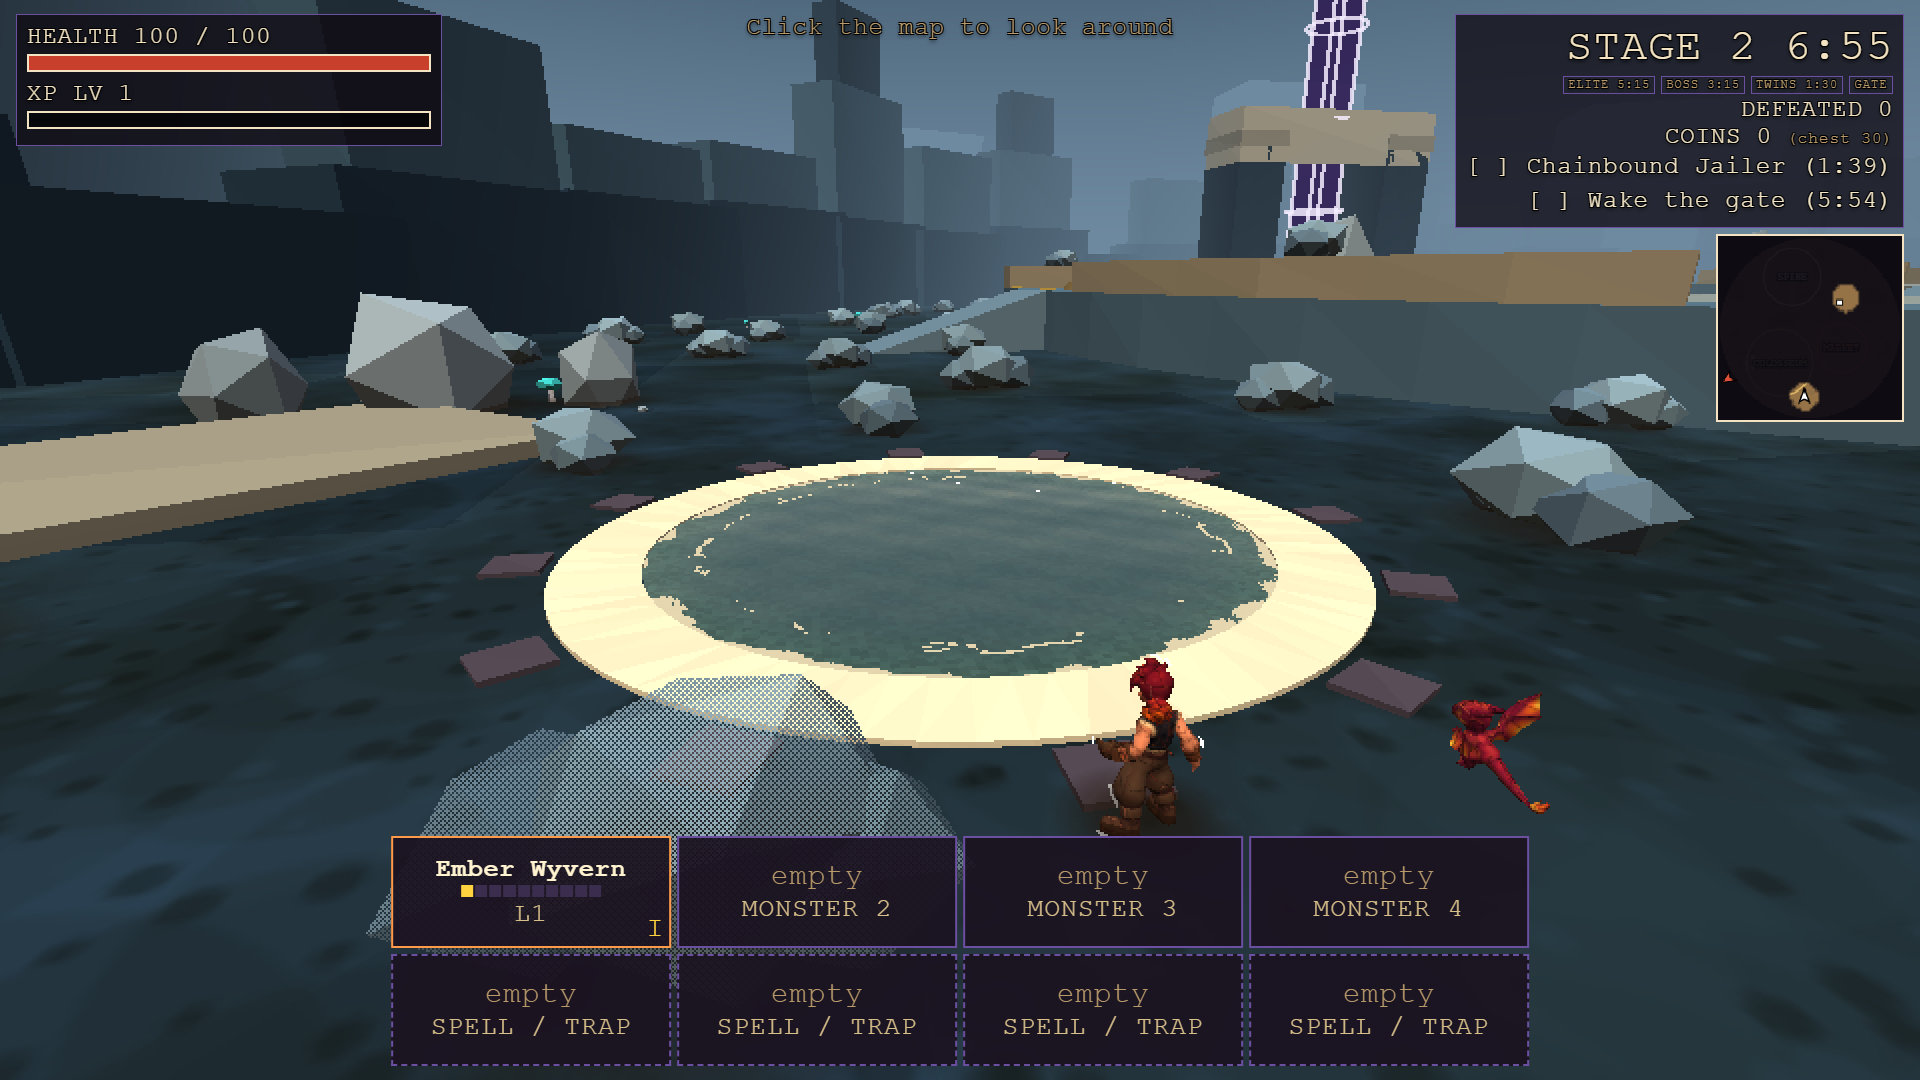
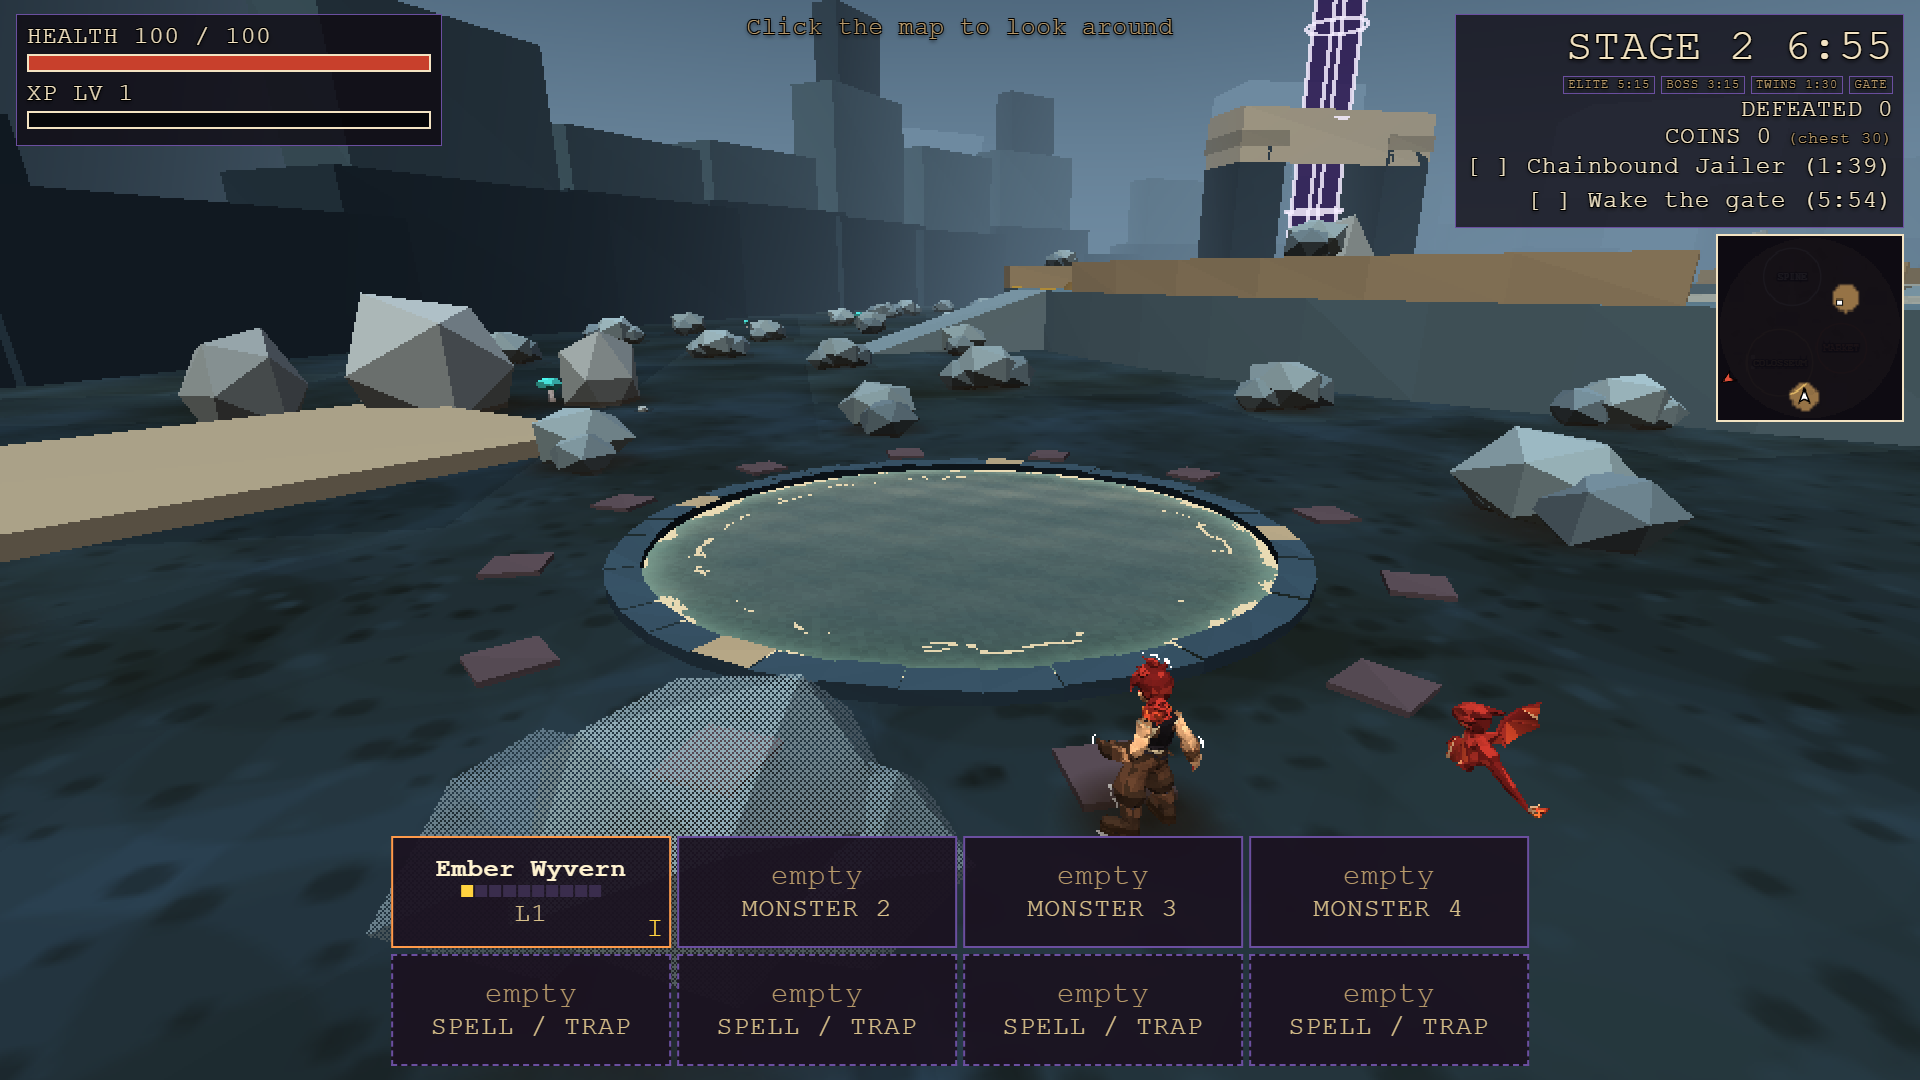
Water round 2: stone lip, basin, shallow edge, glitter band, warmer Stage 1 water
The pool rim is now a low carved stone lip, 0.6 m wide and 0.21 m tall in 40 faceted blocks in the ruinstone ramp (7a6a52 a89578 c9b896, a few light faces on top), with a dark wet band on the inner wall; the water sits 0.15 m below the lip and the sim stays flat. Within about 0.8 m of the rim the bed mixes toward a lighter bed colour with the foam on top. Glitter is a band toward the sun in the light tone of the sky. Stage 1 water is the demo's morning preset darkened a step. New test/browser-waterhide.mjs (duelist and a warning ring in a pool).

Claude-Session: https://claude.ai/code/session_01G4m5sPDpcSeznt8KShqd9B

Changed region(s): [[0.2812, 0.3972, 0.7188, 0.7028], [0.75, 0.6417, 0.8125, 0.7639]]

diff --git a/duelsummoner/src/view/mapMesh.js b/duelsummoner/src/view/mapMesh.js
@@ -105,6 +105,18 @@ function groundTex() {
   for (let i = 0; i < 900; i++) wrap(r() * 256, r() * 256, 0.8 + r() * 1.6, r() < 0.6 ? 'rgba(90,70,40,0.35)' : 'rgba(255,250,235,0.45)');
   gtex = new T.CanvasTexture(cv); gtex.wrapS = gtex.wrapT = T.RepeatWrapping; gtex.magFilter = T.LinearFilter; gtex.minFilter = T.LinearMipmapLinearFilter; return gtex;
 }
+// the pool lip: a low carved stone ring, 0.6 m wide and 0.21 m tall (the water sits 0.15 m below it), faceted in 40 blocks in the ruinstone ramp with a few light faces on top, and a dark wet band on the inner wall
+const LIP = [0x7a6a52, 0xa89578, 0x7a6a52, 0xa89578, 0xc9b896], LIP_H = 0.21, LIP_W = 0.6, WET = 0x3a3028;
+function addLip(B, p, look) {
+  const col = c => (look && look.ramp ? rampColour(look.ramp, c) : c), n = 40, dim = (c, k) => ((Math.round(((c >> 16) & 255) * k) << 16) | (Math.round(((c >> 8) & 255) * k) << 8) | Math.round((c & 255) * k));
+  for (let i = 0; i < n; i++) {
+    const a = i / n * 2 * Math.PI, b = (i + 1) / n * 2 * Math.PI, m = (a + b) / 2, h = LIP_H + (((i * 7) % 5) - 2) * 0.012, r0 = p.r, r1 = p.r + LIP_W, base = LIP[(i * 3 + (i % 4)) % 4], top = col(i % 9 === 4 ? LIP[4] : base), side = col(dim(base, 0.82));
+    const P = (r, ang, y) => [p.x + r * Math.cos(ang), y, p.z + r * Math.sin(ang)];
+    B.quad(P(r0, a, h), P(r1, a, h), P(r1, b, h), P(r0, b, h), [0, 1, 0], top);
+    B.quad(P(r1, a, 0), P(r1, b, 0), P(r1, b, h), P(r1, a, h), [Math.cos(m), 0, Math.sin(m)], side);
+    B.quad(P(r0, a, 0.03), P(r0, b, 0.03), P(r0, b, h), P(r0, a, h), [-Math.cos(m), 0, -Math.sin(m)], col(WET));
+  }
+}
 export function buildMapMesh(map, look) {
   look = look || STAGE_LOOK[0]; const SAND = look.sand, pc = p => (look.ramp ? rampColour(look.ramp, p.c0 === undefined ? p.c : p.c0) : p.c), prims = look.ramp ? map.prims.map(p => Object.assign({}, p, { c: pc(p) })) : map.prims;
   const B = new Builder(), F = new Builder(), G = new Builder(true), group = new T.Group();
@@ -119,7 +131,7 @@ export function buildMapMesh(map, look) {
   { const rd = roadPath(map), strip = (ax, az, bx, bz, hw) => { const dx = bx - ax, dz = bz - az, l = Math.sqrt(dx * dx + dz * dz) || 1, px = -dz / l * hw, pz = dx / l * hw; B.quad([ax - px, 0.05, az - pz], [ax + px, 0.05, az + pz], [bx + px, 0.05, bz + pz], [bx - px, 0.05, bz - pz], [0, 1, 0], look.road); };
     for (let i = 1; i < rd.main.length; i++) strip(rd.main[i - 1][0], rd.main[i - 1][1], rd.main[i][0], rd.main[i][1], rd.width / 2); for (const t of rd.trails) strip(t[0][0], t[0][1], t[1][0], t[1][1], rd.trailWidth / 2); }
   // two summoning pools: an ink-blue disc, a bone rim 1.5 m wide, a ring of glyph tiles; flat and walkable, no effect
-  for (const p of poolSpots(map)) { addRing(B, { cx: p.x, cz: p.z, r0: p.r, r1: p.r + 1.5, a0: 0, a1: 360, h: 0.08, c: 0xe6dcc0 });
+  for (const p of poolSpots(map)) { addLip(B, p, look);
     for (let k = 0; k < 12; k++) { const a = k / 12 * 6.283, x = p.x + Math.cos(a) * (p.r + 2.2), z = p.z + Math.sin(a) * (p.r + 2.2); addBox(B, { x0: x - 0.5, x1: x + 0.5, z0: z - 0.5, z1: z + 0.5, h: 0.09, rot: a / DEG, c: 0x4a4250 }); } }
   prims.forEach(p => { const T2 = p.landmark ? F : B; if (p.t === 'tilt') addTilt(B, p.x, 0, p.z, p.w, p.th, p.hgt, p.yaw, p.tilt, p.c); else if (p.t === 'box') addBox(T2, p); else if (p.t === 'ramp') addRamp(T2, p); else if (p.t === 'ring') addRing(T2, p); else addCyl(T2, p); });
   // the rim: 56 stacked buttes (a base, an inset mid band, a cap on about a third), 16 to 45 m tall, in two strata colours; 8 seeded notches only 8 to 10 m high (view only; the invisible wall stays)

diff --git a/duelsummoner/src/view/water.js b/duelsummoner/src/view/water.js
@@ -20,7 +20,7 @@ void main() {
 const FS = `
 #include <fog_pars_fragment>
 ${GLSL}
-varying vec3 vW; varying float vD; uniform vec4 uRip[8]; uniform vec3 uWatS; uniform vec3 uWatD; uniform vec3 uEye;
+varying vec3 vW; varying float vD; uniform vec4 uRip[8]; uniform vec3 uWatS; uniform vec3 uWatD; uniform vec3 uWatL; uniform vec3 uEye;
 void main() {
   vec2 p = (floor(vW.xz * 8.0) + 0.5) / 8.0; float dep = max(vD, 0.0);
   float g = gust(p), amp = 0.45 + 0.9 * g; vec2 gr = vec2(0.0); float ph;
@@ -38,12 +38,13 @@ void main() {
   vec3 n = normalize(vec3(-gr.x, 1.0, -gr.y)), V = normalize(vW - uEye);
   vec2 bp = p - gr * dep * 3.0; float h = hsh(floor(bp * 8.0));
   vec3 bed = uWatS * (0.85 + 0.3 * h) * 0.9;                                                  // the bed: a wobbled lookup (refraction), a little texel variation
+  bed = mix(bed, uWatL, (1.0 - smoothstep(0.0, 0.27, dep)) * 0.75);                          // within about 0.8 m of the rim the lit bed shows through
   vec3 c = mix(bed, uWatS, (1.0 - exp(-dep * 2.6)) * 0.6); c = mix(c, uWatD, 1.0 - exp(-dep * 1.05));
   vec3 Rf = reflect(V, n); Rf.y = abs(Rf.y) + 0.02; Rf = normalize(Rf);
   vec3 rc = skyBase(Rf);
   float F0 = 0.07; c = mix(c, rc, F0 + (1.0 - F0) * pow(1.0 - max(dot(n, -V), 0.0), 4.0));
-  float tw = hsh(floor(p * 8.0) + floor(uT * 10.0) * vec2(7.0, 3.0)), lobe = pow(max(dot(Rf, uSunD), 0.0), 70.0);
-  c += uSunK * (step(1.0 - lobe * (0.7 + g), tw) + step(0.9975 - 0.006 * g, tw)) * 0.85;      // sun glitter, twinkling per texel
+  float tw = hsh(floor(p * 8.0) + floor(uT * 10.0) * vec2(7.0, 3.0)), lobe = pow(max(dot(normalize(Rf.xz + 1e-5), normalize(uSunD.xz)), 0.0), 18.0) * smoothstep(0.0, 0.5, 1.0 - Rf.y);
+  c += mix(uSunK, uSkyH, 0.45) * (step(1.0 - lobe * (0.55 + 0.5 * g), tw) * 1.1 + step(0.9985, tw) * 0.3);      // sun glitter: a band toward the sun, twinkling per texel, in the light tone of the sky
   c += uWatS * 0.16 * step(0.55, g);                                                           // a gust shows as a paler patch
   float fn = N(p * 0.19 + vec2(4.0, 2.0) / 512.0 * uT).r, lap = 0.5 + 0.5 * sin(uT * 1.4 + dep * 18.0 + fn * 4.0);
   float foam = step(dep + (fn - 0.5) * 0.12, 0.03 + 0.05 * lap);                               // the foam line laps in and out at the rim
@@ -65,7 +66,7 @@ export function buildWater(pools, look) {
     base += 1 + (RINGS.length - 1) * SIDES;
   }
   const g = new T.BufferGeometry(); g.setAttribute('position', new T.Float32BufferAttribute(pos, 3)); g.setAttribute('aD', new T.Float32BufferAttribute(dep, 1)); g.setIndex(idx);
-  const u = T.UniformsUtils.merge([T.UniformsLib.fog, engineUniforms(), { uRip: { value: [] }, uWatS: { value: new T.Color(look.water[0]) }, uWatD: { value: new T.Color(look.water[1]) }, uEye: { value: new T.Vector3() } }]);
+  const u = T.UniformsUtils.merge([T.UniformsLib.fog, engineUniforms(), { uRip: { value: [] }, uWatS: { value: new T.Color(look.water[0]) }, uWatD: { value: new T.Color(look.water[1]) }, uWatL: { value: new T.Color(look.water[2]) }, uEye: { value: new T.Vector3() } }]);
   u.uRip.value = []; for (let i = 0; i < 8; i++) u.uRip.value.push(new T.Vector4());
   const mat = new T.ShaderMaterial({ uniforms: u, vertexShader: VS, fragmentShader: FS, fog: true, side: T.DoubleSide });
   const mesh = new T.Mesh(g, mat); mesh.frustumCulled = false; mesh.userData.update = cam => { u.uEye.value.copy(cam); for (let i = 0; i < 8; i++) u.uRip.value[i].set(RIP[i * 4], RIP[i * 4 + 1], RIP[i * 4 + 2], RIP[i * 4 + 3]); };

diff --git a/duelsummoner/src/data/look.js b/duelsummoner/src/data/look.js
@@ -2,11 +2,11 @@
 // ramp: null keeps each primitive's own colour; otherwise a primitive's original colour (p.c0) is mapped by its brightness onto this ramp of palette colours, dark to light.
 // sky: top, horizon (also the fog colour) and below-the-horizon colours.
 export const STAGE_LOOK = [
-  { name: 'ruins', ramp: null, sand: [0xc8a46c, 0xcaa978, 0xc09c66], road: 0xb09470, rim: [0xbca494, 0xd0bcaa, 0xbca494], mesa: 0xd4c4ac, skirt: 0xc8a46c, landmark: [0xe6dcc0, 0x4a4250], seal: [0.18, 0.10, 0.32], sky: [0x8fb2cc, 0xe8d6b0, 0xd9c29a], fogNear: 80, fogFar: 300, water: [0x2e3f66, 0x16203c] },
+  { name: 'ruins', ramp: null, sand: [0xc8a46c, 0xcaa978, 0xc09c66], road: 0xb09470, rim: [0xbca494, 0xd0bcaa, 0xbca494], mesa: 0xd4c4ac, skirt: 0xc8a46c, landmark: [0xe6dcc0, 0x4a4250], seal: [0.18, 0.10, 0.32], sky: [0x8fb2cc, 0xe8d6b0, 0xd9c29a], fogNear: 80, fogFar: 300, water: [0x32939f, 0x14395a, 0x7fc9c9] },
   // Stage 2, Sealed Catacombs: slate floor, wet stone edge, old bone and rust. No sun, a pale cold haze.
-  { name: 'catacombs', ramp: [0x0f1a26, 0x23384d, 0x3c5a73, 0x6e8aa0, 0x9a917c, 0xd9d0b8], sand: [0x23384d, 0x2a4259, 0x1d3043], road: 0x3c5a73, rim: [0x23384d, 0x3c5a73, 0x1b2c3e], mesa: 0x2a4259, skirt: 0x0f1a26, landmark: [0xd9d0b8, 0x23384d], seal: [0.18, 0.10, 0.32], sky: [0x23384d, 0x6e8aa0, 0x0f1a26], fogNear: 50, fogFar: 230, water: [0x3f5f52, 0x1b2c3e] },
+  { name: 'catacombs', ramp: [0x0f1a26, 0x23384d, 0x3c5a73, 0x6e8aa0, 0x9a917c, 0xd9d0b8], sand: [0x23384d, 0x2a4259, 0x1d3043], road: 0x3c5a73, rim: [0x23384d, 0x3c5a73, 0x1b2c3e], mesa: 0x2a4259, skirt: 0x0f1a26, landmark: [0xd9d0b8, 0x23384d], seal: [0.18, 0.10, 0.32], sky: [0x23384d, 0x6e8aa0, 0x0f1a26], fogNear: 50, fogFar: 230, water: [0x3f5f52, 0x1b2c3e, 0x6f9a86] },
   // Stage 3, Vault of the Last Duel: basalt floor under a roof lost in black, ash-gold, moon-white and crimson. No violet in the scenery; the seal core is pale so it reads on dark ground.
-  { name: 'vault', ramp: [0x0d0b12, 0x1e1e2a, 0x2e2c3a, 0x46445a, 0x8a7a5c, 0xb8a37c, 0xd9c7a0], sand: [0x1e1e2a, 0x2e2c3a, 0x26242f], road: 0x46445a, rim: [0x2e2c3a, 0x46445a, 0x1e1e2a], mesa: 0x1e1e2a, skirt: 0x0d0b12, landmark: [0xd8e4f4, 0x2e2c3a], seal: [0.62, 0.52, 0.88], sky: [0x0d0b12, 0x2e2c3a, 0x0d0b12], fogNear: 45, fogFar: 210, water: [0x1e1e2a, 0x0d0b12] }
+  { name: 'vault', ramp: [0x0d0b12, 0x1e1e2a, 0x2e2c3a, 0x46445a, 0x8a7a5c, 0xb8a37c, 0xd9c7a0], sand: [0x1e1e2a, 0x2e2c3a, 0x26242f], road: 0x46445a, rim: [0x2e2c3a, 0x46445a, 0x1e1e2a], mesa: 0x1e1e2a, skirt: 0x0d0b12, landmark: [0xd8e4f4, 0x2e2c3a], seal: [0.62, 0.52, 0.88], sky: [0x0d0b12, 0x2e2c3a, 0x0d0b12], fogNear: 45, fogFar: 210, water: [0x1e1e2a, 0x0d0b12, 0x3a3a4c] }
 ];
 export const lookFor = stage => STAGE_LOOK[Math.max(0, Math.min(stage | 0, STAGE_LOOK.length - 1))];
 
